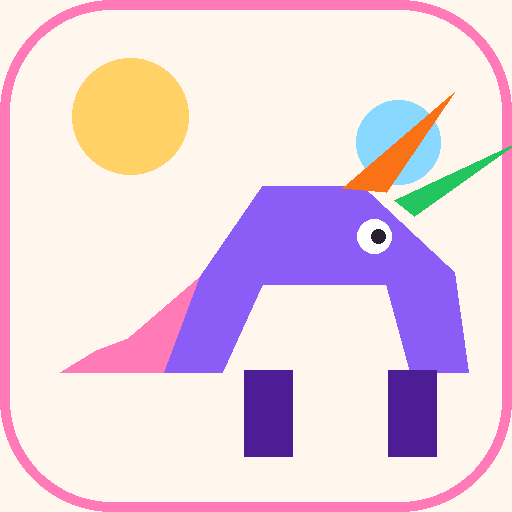
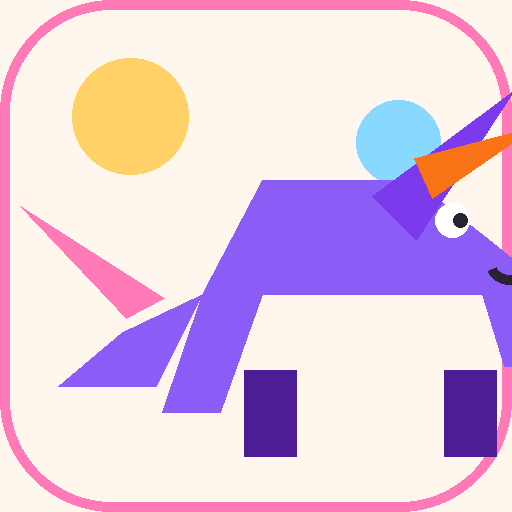
uprava vzhladu a odstranenie textov a prestavky 30min

Changed region(s): [[0.5, 0.1875, 1.0, 0.9062], [0.0312, 0.4062, 0.5, 0.8125], [0.5625, 0.7188, 0.5938, 0.9062]]

diff --git a/styles.css b/styles.css
@@ -36,10 +36,14 @@ body::before {
   inset: 0;
   pointer-events: none;
   background-image:
-    radial-gradient(circle, rgba(255, 122, 182, 0.18) 0 5px, transparent 6px),
-    radial-gradient(circle, rgba(114, 230, 177, 0.18) 0 4px, transparent 5px);
-  background-position: 24px 24px, 72px 62px;
-  background-size: 124px 124px;
+    radial-gradient(circle, rgba(255, 122, 182, 0.20) 0 3px, transparent 4px),
+    radial-gradient(circle, rgba(255, 122, 182, 0.13) 0 5px, transparent 6px),
+    radial-gradient(circle, rgba(255, 122, 182, 0.13) 0 5px, transparent 6px),
+    radial-gradient(circle, rgba(255, 122, 182, 0.13) 0 5px, transparent 6px),
+    radial-gradient(circle, rgba(255, 122, 182, 0.13) 0 5px, transparent 6px),
+    radial-gradient(circle, rgba(114, 230, 177, 0.12) 0 3px, transparent 4px);
+  background-position: 28px 28px, 28px 18px, 38px 28px, 28px 38px, 18px 28px, 94px 74px;
+  background-size: 142px 142px;
 }
 
 button,
@@ -120,9 +124,36 @@ h2 {
 }
 
 .horse {
-  flex: 0 0 118px;
-  width: 118px;
+  flex: 0 0 132px;
+  width: 132px;
   filter: drop-shadow(0 8px 12px rgba(124, 58, 237, 0.18));
+}
+
+.horse-body {
+  fill: var(--violet);
+}
+
+.horse-tail {
+  fill: var(--pink);
+}
+
+.horse-neck {
+  fill: #7c3aed;
+}
+
+.horse-mane {
+  fill: #f97316;
+}
+
+.horse-leg {
+  fill: #4c1d95;
+}
+
+.horse-smile {
+  fill: none;
+  stroke: #2b2230;
+  stroke-linecap: round;
+  stroke-width: 3;
 }
 
 .eyebrow {
@@ -180,6 +211,12 @@ h2 {
 
 .primary:hover {
   background: var(--pink-dark);
+}
+
+.quiet {
+  border-color: rgba(247, 198, 217, 0.65);
+  background: rgba(255, 255, 255, 0.62);
+  color: var(--muted);
 }
 
 .danger {

diff --git a/index.html b/index.html
@@ -5,7 +5,7 @@
     <meta name="viewport" content="width=device-width, initial-scale=1, viewport-fit=cover">
     <meta name="theme-color" content="#ff7ab6">
     <meta name="description" content="Jednoducha dochadzkova appka pre mobil.">
-    <title>Kikin Stempel</title>
+    <title>Stempeln</title>
     <link rel="manifest" href="manifest.webmanifest">
     <link rel="icon" href="icons/icon.svg" type="image/svg+xml">
     <link rel="apple-touch-icon" href="icons/icon.svg">
@@ -15,16 +15,17 @@
     <div class="app-shell">
       <header class="hero">
         <div>
-          <p class="eyebrow">Kikin pracovny den</p>
-          <h1>Stempel</h1>
+          <h1>Stempeln</h1>
         </div>
-        <svg class="horse" viewBox="0 0 120 88" role="img" aria-label="Vesely konik">
-          <path d="M22 58c6-20 18-32 36-32h22c10 0 17 7 18 17l2 20h-9l-4-18H54L46 63h-9l7-18c-8 2-13 8-16 18h-9l3-5Z" fill="#7c3aed"/>
-          <path d="M78 26c3-11 10-17 21-19-1 8-5 14-12 19h-9Z" fill="#f97316"/>
-          <path d="M92 27c4-9 12-13 22-12-3 7-9 12-18 14l-4-2Z" fill="#22c55e"/>
-          <circle cx="84" cy="36" r="3" fill="#fff"/>
-          <path d="M29 56c-10 1-17-3-21-12 8-2 15 0 22 7l-1 5Z" fill="#ff7ab6"/>
-          <path d="M50 64h8v15h-8zM83 64h8v15h-8z" fill="#4c1d95"/>
+        <svg class="horse" viewBox="0 0 150 110" role="img" aria-label="Konik">
+          <path class="horse-tail" d="M38 65c-14-5-24-15-29-29 16 0 28 8 37 23Z"/>
+          <path class="horse-body" d="M36 68c8-24 27-39 57-39h18c16 0 29 10 33 26l5 21h-14l-6-18H72L61 88H47l11-30c-9 2-16 9-21 23H22c3-6 8-11 14-13Z"/>
+          <path class="horse-neck" d="M100 34c7-14 19-23 36-27 1 16-9 30-25 38Z"/>
+          <path class="horse-mane" d="M111 24c9-7 19-10 31-8-4 10-13 16-26 18Z"/>
+          <path class="horse-leg" d="M66 78h13v25H66zM116 78h13v25h-13z"/>
+          <circle cx="119" cy="38" r="4" fill="#fff"/>
+          <circle cx="121" cy="38" r="1.8" fill="#2b2230"/>
+          <path class="horse-smile" d="M127 49c4 3 8 3 12 0"/>
         </svg>
       </header>
 
@@ -81,9 +82,9 @@
                 <label>
                   Prestavka
                   <select id="breakInput">
-                    <option value="0">0 min</option>
+                    <option value="0" selected>0 min</option>
                     <option value="15">15 min</option>
-                    <option value="30" selected>30 min</option>
+                    <option value="30">30 min</option>
                     <option value="45">45 min</option>
                     <option value="60">60 min</option>
                   </select>
@@ -144,7 +145,7 @@
       </main>
 
       <footer>
-        <button id="syncButton" type="button">Synchronizovat</button>
+        <button id="syncButton" class="quiet" type="button">Obnovit udaje</button>
         <button id="logoutButton" type="button" hidden>Odhlasit</button>
         <p id="appMessage" class="tiny"></p>
       </footer>

diff --git a/app.js b/app.js
@@ -1,6 +1,6 @@
 import { SUPABASE_ANON_KEY, SUPABASE_URL } from "./config.js";
 
-const TABLE = "work_entries";
+const TABLE = "stempeln_work_entries";
 const isConfigured = SUPABASE_URL.startsWith("https://")
   && !SUPABASE_URL.includes("YOUR-PROJECT")
   && !SUPABASE_ANON_KEY.includes("YOUR-SUPABASE")
@@ -239,7 +239,7 @@ function fillForm(entry = null) {
   controls.date.value = entry?.work_date || localDate();
   controls.clockIn.value = toTimeInput(entry?.clock_in);
   controls.clockOut.value = toTimeInput(entry?.clock_out);
-  controls.breakMinutes.value = String(entry?.break_minutes ?? 30);
+  controls.breakMinutes.value = String(entry?.break_minutes ?? 0);
   controls.type.value = entry?.type || "work";
   controls.note.value = entry?.note || "";
   controls.deleteButton.hidden = !entry?.id;
@@ -269,7 +269,7 @@ function renderToday() {
 
   if (!current) {
     controls.todayStatus.textContent = "Este nezapisane";
-    controls.todayTimes.textContent = "Staci klepnut na Einstempeln.";
+    controls.todayTimes.textContent = "";
     controls.clockInButton.disabled = false;
     controls.clockOutButton.disabled = true;
     return;
@@ -352,7 +352,7 @@ async function stamp(kind) {
     work_date: localDate(now),
     clock_in: null,
     clock_out: null,
-    break_minutes: 30,
+    break_minutes: 0,
     type: "work",
     note: "",
   };
@@ -422,7 +422,7 @@ $("#emailLoginButton").addEventListener("click", signInWithEmail);
 $("#logoutButton").addEventListener("click", signOut);
 $("#syncButton").addEventListener("click", async () => {
   await refresh();
-  setMessage("Synchronizovane.");
+  setMessage("Obnovene.");
 });
 
 controls.clockInButton.addEventListener("click", () => stamp("in"));

diff --git a/sw.js b/sw.js
@@ -1,4 +1,4 @@
-const CACHE_NAME = "kikin-stempel-v2";
+const CACHE_NAME = "kikin-stempel-v4";
 const ASSETS = [
   "./",
   "./index.html",

diff --git a/README.md b/README.md
@@ -4,8 +4,8 @@ Jednoducha PWA dochadzka pre mobil. Kika vie otvorit appku, klepnut na `Einstemp
 
 ## Co treba nastavit
 
-1. V Supabase vytvor novy projekt.
-2. V SQL editore spusti obsah suboru `supabase.sql`.
+1. V Supabase mozes pouzit existujuci projekt.
+2. V SQL editore spusti obsah suboru `supabase.sql`; vytvori tabulku `stempeln_work_entries`, takze sa nebude miesat s inymi appkami.
 3. V Supabase zapni Auth provider Google alebo aspon email magic link.
 4. V `Authentication -> URL Configuration` nastav Site URL na GitHub Pages adresu, napriklad `https://tomasbernik.github.io/stempeln/`.
 5. Do Redirect URLs pridaj tu istu adresu.